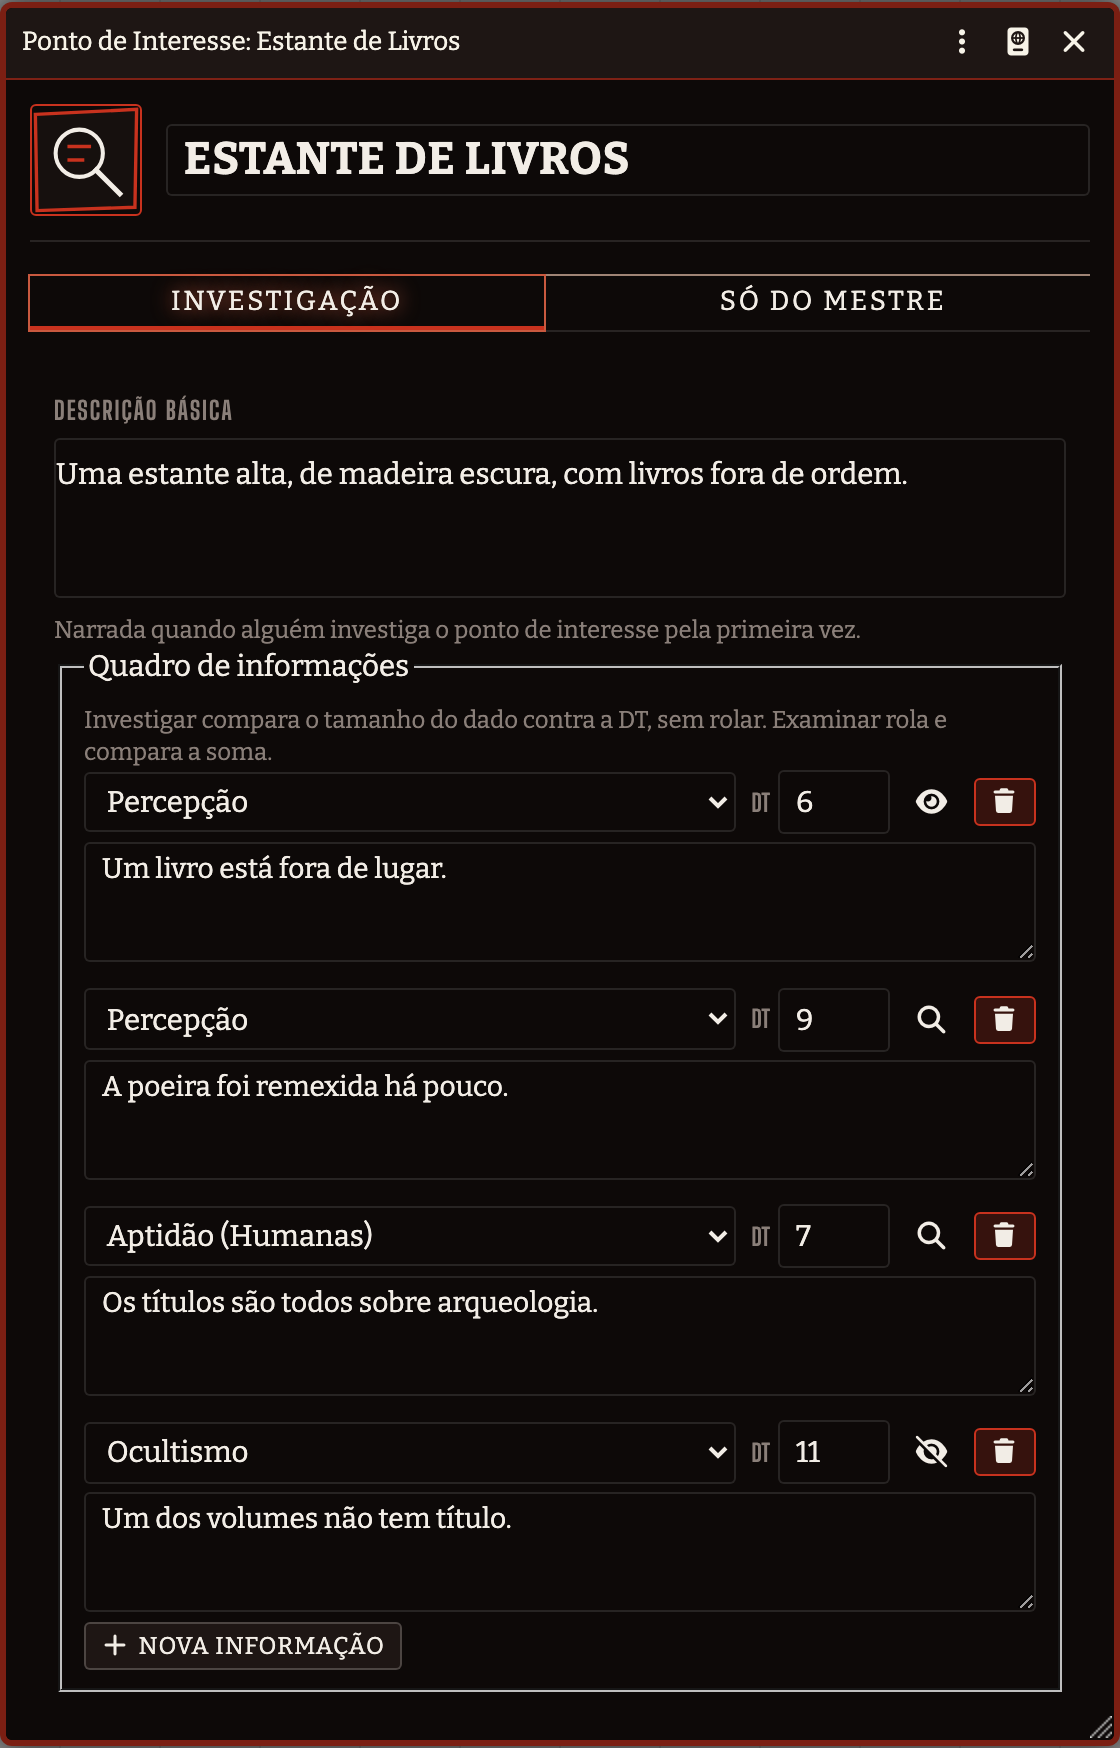
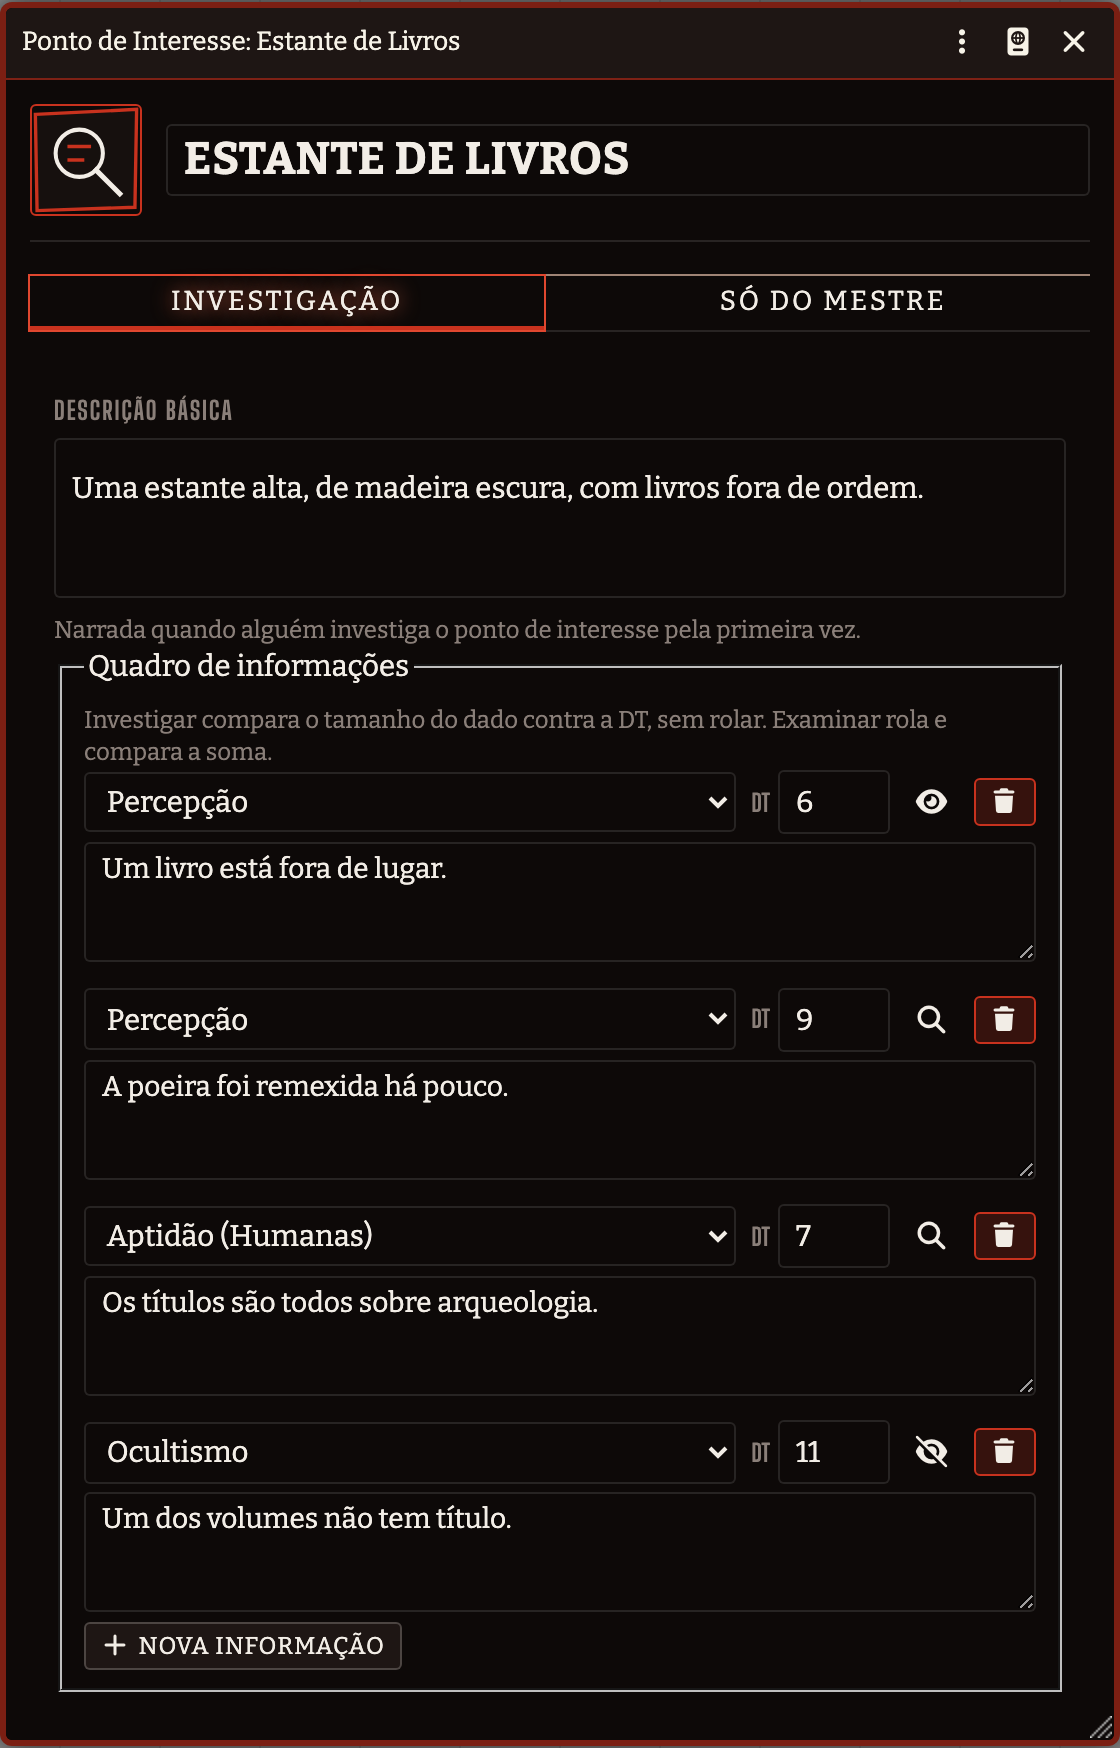
fix(editor): o texto rico deixa de esconder o que está escrito, e o Ato II ganha a maldição como evento
O ProseMirror do core é um flex column cujo miolo rola sozinho, e o miolo da
leitura ainda vem em `position: absolute`. Resultado: a caixa encolhia até o
`min-height` do container e escondia o resto — em leitura, 116px de texto numa
caixa de 78, com a barra de rolagem invisível; em edição, sobrava a barra de
ferramentas e 15px de área de digitar, então não dava para ver o que se estava
escrevendo. Valia para toda ficha de item, não só a do evento.

- Leitura: o miolo volta ao fluxo e a caixa cresce com o texto; quem rola é a ficha.
- Edição: 14rem de altura mínima, com 9 a 24rem de área de digitar.

E o Ato II passa a trazer a maldição como Item `evento`, já vinculado à
investigação e parado: lá os agentes não fizeram o ritual, e só atraem a
manifestação se danificarem o Ídolo (p. 87). O gatilho é o texto do quadro do
livro; o mestre dispara no painel quando acontecer. Os itens do Ato II ganham a
pasta Eventos, e o construtor da maldição passou a ser um só para os dois atos.

532 verificações no e2e.

Changed region(s): [[0.0625, 0.2471, 0.8125, 0.3089]]

diff --git a/styles/parciais/_ficha.scss b/styles/parciais/_ficha.scss
@@ -772,16 +772,46 @@
   font-size: 0.78rem;
 }
 
-// O editor de texto rico (ProseMirror) vem com uma altura mínima grande por padrão
-// do core — sobrava bastante caixa vazia em descrições curtas de habilidade. E sem
-// fundo/borda própria ele se mistura com o preto da janela: a caixa de 6rem vira
-// espaço morto em vez de se ler como um campo de texto (achado em uso real).
+// O editor de texto rico (ProseMirror) vem sem fundo nem borda próprios e se mistura
+// com o preto da janela: a caixa vira espaço morto em vez de se ler como um campo de
+// texto (achado em uso real).
 .op2-item-ficha prose-mirror {
   min-height: 6rem;
   padding: 0.4rem 0.5rem;
   border: 1px solid var(--op2-linha);
   border-radius: var(--op2-raio);
   background: color-mix(in srgb, var(--op2-fundo) 70%, transparent);
+}
+
+// O ProseMirror é um flex column cujo miolo (`.editor-content` na leitura,
+// `.editor-container` na edição) rola sozinho. Filho de flex com rolagem própria tem
+// altura mínima zero, então a caixa inteira encolhia até o `min-height` do container
+// e escondia o resto: em leitura, 116px de texto numa caixa de 78, com a barra de
+// rolagem invisível; em edição, sobrava a barra de ferramentas e 15px de área de
+// digitar — não dava para ver o que se estava escrevendo (medido nas duas fichas).
+.op2 prose-mirror {
+  height: auto;
+
+  // Leitura: o texto todo à mostra. Quem rola é a ficha. O core põe o miolo em
+  // `position: absolute; inset: 0`, então ele não conta na altura e a caixa fica do
+  // tamanho do `min-height` — o resto do texto some (medido: 108px de texto numa
+  // caixa de 78, rolando por dentro, sem barra visível).
+  &.inactive .editor-content {
+    position: static;
+    overflow: visible;
+    flex: 0 0 auto;
+  }
+
+  // Edição: barra de ferramentas mais uma área de digitar de verdade.
+  &.active {
+    min-height: 14rem;
+
+    .editor-container {
+      overflow: auto;
+      min-height: 9rem;
+      max-height: 24rem;
+    }
+  }
 }
 
 }

diff --git a/styles/parciais/_investigacao.scss b/styles/parciais/_investigacao.scss
@@ -1154,8 +1154,9 @@ details[open] > summary.op2-painel-titulo::before { transform: rotate(45deg); }
   }
 
   // Gatilho e descrição são uma ou duas frases: a caixa de 6rem da ficha de item
-  // empurrava o roteiro inteiro para fora da janela.
-  .op2-item-ficha prose-mirror { min-height: 3.5rem; }
+  // empurrava o roteiro inteiro para fora da janela. Em edição a regra base devolve
+  // a altura de digitar.
+  .op2-item-ficha prose-mirror.inactive { min-height: 3.5rem; }
 }
 
 .op2-evento-roteiro__topo {

diff --git a/AGENTS.md b/AGENTS.md
@@ -23,7 +23,8 @@ pré-gerados, handouts, 31 pontos com 86 linhas de quadro, 10 desafios, itens de
 roteiro e maldição rodada a rodada. Ato II (`Ato II — O Porão`): cena com as paredes
 transportadas, os cinco agentes, handouts e Compêndio em PDF, áudios EMF, as dez
 ferramentas, 25 pontos com 63 linhas e o setor de ferramentas (44 leituras), 3
-desafios, roteiro e mecânicas de mestre. **As artes do Ato II não entram no sistema:**
+desafios, roteiro, mecânicas de mestre e a maldição como evento parado (o gatilho ali
+é quebrar o Ídolo, p. 87). **As artes do Ato II não entram no sistema:**
 o importador (`module/ui/extras-aventura.mjs`) pede o zip da editora e sobe para
 `worlds/<mundo>/ato-ii/`. Pronto para a rodada de teste manual que fecha a v1.
 **Versão:** 0.0.1 (a v1 é decisão de release).

diff --git a/CLAUDE.md b/CLAUDE.md
@@ -22,7 +22,8 @@ pré-gerados, handouts, 31 pontos com 86 linhas de quadro, 10 desafios, itens de
 roteiro e maldição rodada a rodada. Ato II (`Ato II — O Porão`): cena com as paredes
 transportadas, os cinco agentes, handouts e Compêndio em PDF, áudios EMF, as dez
 ferramentas, 25 pontos com 63 linhas e o setor de ferramentas (44 leituras), 3
-desafios, roteiro e mecânicas de mestre. **As artes do Ato II não entram no sistema:**
+desafios, roteiro, mecânicas de mestre e a maldição como evento parado (o gatilho ali
+é quebrar o Ídolo, p. 87). **As artes do Ato II não entram no sistema:**
 o importador (`module/ui/extras-aventura.mjs`) pede o zip da editora e sobe para
 `worlds/<mundo>/ato-ii/`. Pronto para a rodada de teste manual que fecha a v1.
 **Versão:** 0.0.1 (a v1 é decisão de release).

diff --git a/README.md b/README.md
@@ -273,8 +273,8 @@ como playlist, as dez ferramentas prontas para arrastar, os **25 pontos de inter
 com as **63 linhas de quadro** e o **setor de ferramentas** de cada um (44 leituras,
 conferidas contra a tabela *Locais de uso de cada ferramenta* do livro), os três
 desafios de acesso, o roteiro do ato com as instruções de mestre de cada ferramenta,
-as regras da maldição para o caso de quebrarem o Ídolo, e a investigação com tudo
-vinculado.
+a maldição como evento já vinculado — parado, porque no Ato II o gatilho é danificar o
+Ídolo (p. 87) —, e a investigação com tudo vinculado.
 
 ### As artes vêm do seu zip
 
